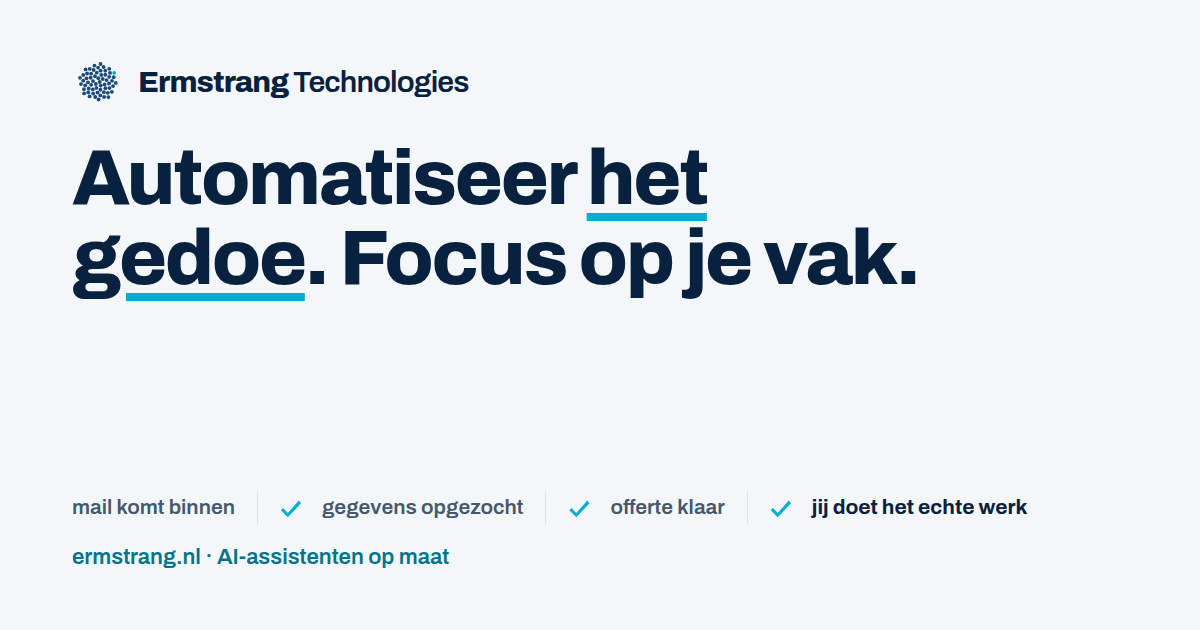
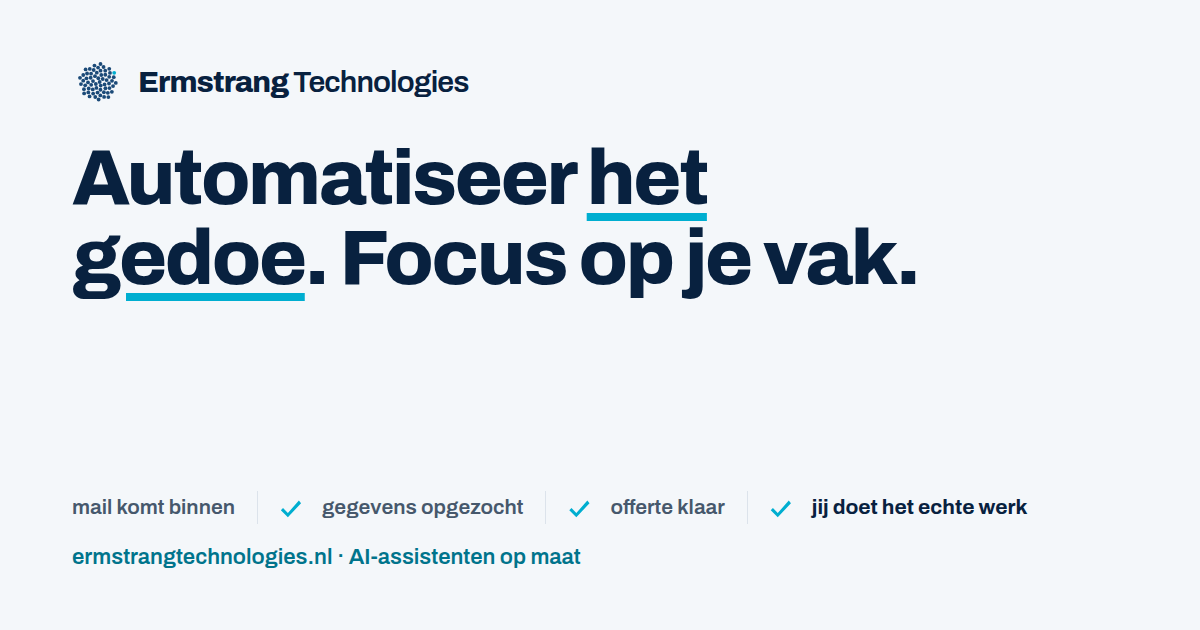
Domein naar ermstrangtechnologies.nl (uit de CNAME in de repo)
canonical, og:url, og:image, sitemap, robots, privacy, README en het og-beeld aangepast.
E-mailadres voorlopig info@ermstrangtechnologies.nl - nog te bevestigen.

Changed region(s): [[0.1233, 0.8746, 0.4933, 0.9048]]

diff --git a/index.html b/index.html
@@ -6,7 +6,7 @@
 
 <title>Ermstrang Technologies — AI-assistent op maat voor zzp en mkb</title>
 <meta name="description" content="Wij bouwen één AI-assistent op maat die je terugkerende werk overneemt: mail, offertes, facturen, planning. Automatiseer het gedoe. Focus op je vak.">
-<link rel="canonical" href="https://ermstrang.nl/">
+<link rel="canonical" href="https://ermstrangtechnologies.nl/">
 <meta name="theme-color" content="#08213F">
 
 <!-- VERVANGEN VOOR LIVE: canonical/og:url hierboven en in sitemap.xml naar je echte domein -->
@@ -15,8 +15,8 @@
 <meta property="og:site_name" content="Ermstrang Technologies">
 <meta property="og:title" content="Ermstrang Technologies — AI-assistent op maat voor zzp en mkb">
 <meta property="og:description" content="Automatiseer het gedoe. Focus op je vak. Wij bouwen één AI-assistent op maat die je terugkerende werk overneemt.">
-<meta property="og:url" content="https://ermstrang.nl/">
-<meta property="og:image" content="https://ermstrang.nl/assets/img/og-image.png">
+<meta property="og:url" content="https://ermstrangtechnologies.nl/">
+<meta property="og:image" content="https://ermstrangtechnologies.nl/assets/img/og-image.png">
 <meta property="og:image:width" content="1200">
 <meta property="og:image:height" content="630">
 <meta name="twitter:card" content="summary_large_image">
@@ -275,10 +275,10 @@
           rekenen door wat automatiseren oplevert en zeggen het eerlijk als het bij jou niets
           oplevert.</p>
         <p class="hero__actions">
-          <a class="btn" href="mailto:info@ermstrang.nl?subject=Kennismaking%20Ermstrang%20Technologies">Mail voor een afspraak</a>
+          <a class="btn" href="mailto:info@ermstrangtechnologies.nl?subject=Kennismaking%20Ermstrang%20Technologies">Mail voor een afspraak</a>
         </p>
         <ul class="contact__list">
-          <li><a href="mailto:info@ermstrang.nl">info@ermstrang.nl</a><span><!-- TE VULLEN: telefoonnummer -->Reactie binnen één werkdag</span></li>
+          <li><a href="mailto:info@ermstrangtechnologies.nl">info@ermstrangtechnologies.nl</a><span><!-- TE VULLEN: telefoonnummer -->Reactie binnen één werkdag</span></li>
         </ul>
       </div>
       <aside class="contact__ask">
@@ -316,7 +316,7 @@
       <div>
         <h4>Contact</h4>
         <ul>
-          <li><a href="mailto:info@ermstrang.nl">info@ermstrang.nl</a></li>
+          <li><a href="mailto:info@ermstrangtechnologies.nl">info@ermstrangtechnologies.nl</a></li>
           <!-- TE VULLEN: telefoonnummer, bezoekadres, KvK-nummer, btw-id -->
         </ul>
       </div>

diff --git a/privacy.html b/privacy.html
@@ -5,7 +5,7 @@
 <meta name="viewport" content="width=device-width, initial-scale=1">
 <title>Privacy — Ermstrang Technologies</title>
 <meta name="description" content="Wat Ermstrang Technologies met je gegevens doet: deze site zet geen cookies en laadt niets van derden.">
-<link rel="canonical" href="https://ermstrang.nl/privacy.html">
+<link rel="canonical" href="https://ermstrangtechnologies.nl/privacy.html">
 <link rel="icon" href="assets/img/favicon-dots.svg" type="image/svg+xml">
 <link rel="stylesheet" href="assets/css/style.css">
 <script>document.documentElement.classList.add('js');</script>
@@ -30,7 +30,7 @@
       niet door Google of een andere partij. Er gaat dus geen bezoekersgegeven naar buiten.</p>
     <p><strong>Mail.</strong> Als je ons mailt, bewaren we die mail zolang als nodig is om je vraag
       te behandelen en de administratie te voeren die daarbij hoort. Je kunt op elk moment vragen om
-      inzage of verwijdering via <a class="link" href="mailto:info@ermstrang.nl">info@ermstrang.nl</a>.</p>
+      inzage of verwijdering via <a class="link" href="mailto:info@ermstrangtechnologies.nl">info@ermstrangtechnologies.nl</a>.</p>
     <p><strong>Klantgegevens.</strong> Bij klanten bouwen we assistenten in hun eigen omgeving. De
       gegevens die daar verwerkt worden, blijven daar en worden niet naar ons doorgezonden. Bij een
       opdracht leggen we in een verwerkersovereenkomst vast wie waarvoor verantwoordelijk is.</p>

diff --git a/design/asset-render2.html b/design/asset-render2.html
@@ -87,7 +87,7 @@
         <span><i class="tick"></i>offerte klaar</span>
         <span><i class="tick"></i>jij doet het echte werk</span>
       </div>
-      <div class="url">ermstrang.nl · AI-assistenten op maat</div>
+      <div class="url">ermstrangtechnologies.nl · AI-assistenten op maat</div>
     </div>
   </div></div>
 

diff --git a/design/build-editable-logo2.py b/design/build-editable-logo2.py
@@ -61,7 +61,7 @@ s.shapes.add_picture(os.path.join(A,"mark-navy-512.png"), IN(64), IN(148), heigh
 textbox(s, 200, 146, 620, 50, [W()], PAPER)
 textbox(s, 800, 128, 748, 110, [[("Automatiseer het gedoe.", "Archivo", 46, True, -1.3)],
                                 [("Focus op je vak.", "Archivo", 46, True, -1.3)]], PAPER)
-textbox(s, 800, 240, 748, 26, [[("AI-assistenten op maat voor zzp en mkb · ermstrang.nl",
+textbox(s, 800, 240, 748, 26, [[("AI-assistenten op maat voor zzp en mkb · ermstrangtechnologies.nl",
                                 "Source Sans 3", 19, False, 0)]], DIM)
 
 # 2 — liggend lockup op papier + uitleg dat de tekst aanpasbaar is

diff --git a/README.md b/README.md
@@ -17,19 +17,19 @@ assets/brand        kant-en-klare maten voor LinkedIn en social
 
 ## Online zetten (GitHub Pages)
 
-1. Maak een bestand `CNAME` met daarin je domein (bijv. `ermstrang.nl`).
+1. Maak een bestand `CNAME` met daarin je domein (bijv. `ermstrangtechnologies.nl`).
 2. Repo -> Settings -> Pages -> Source: `Deploy from a branch`, branch `main`, map `/ (root)`.
 3. DNS bij je provider:
    - `A`-records voor het root-domein naar `185.199.108.153`, `185.199.109.153`,
      `185.199.110.153`, `185.199.111.153`
    - `CNAME` voor `www` naar `OTcode02.github.io`
 4. "Enforce HTTPS" aanzetten zodra het certificaat er is.
-5. Gebruik je een ander domein dan `ermstrang.nl`, vervang het dan in `index.html`, `privacy.html`,
+5. Gebruik je een ander domein dan `ermstrangtechnologies.nl`, vervang het dan in `index.html`, `privacy.html`,
    `robots.txt` en `sitemap.xml`.
 
 ## Nog te vullen (staat ook als commentaar in de HTML)
 
-- [ ] e-mailadres: nu `info@ermstrang.nl`
+- [ ] e-mailadres: nu `info@ermstrangtechnologies.nl`
 - [ ] telefoonnummer, vestigingsadres, KvK-nummer, btw-id
 - [ ] privacyverklaring juridisch laten nakijken
 - [ ] bevestigen of de prijsalinea ("vaste opstartprijs en een vast bedrag per maand") zo mag blijven
